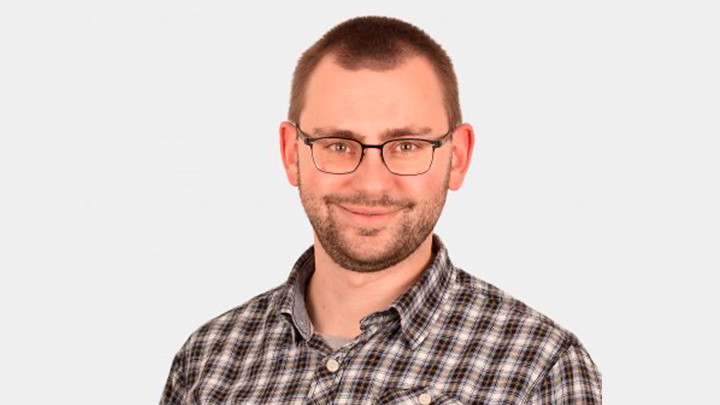
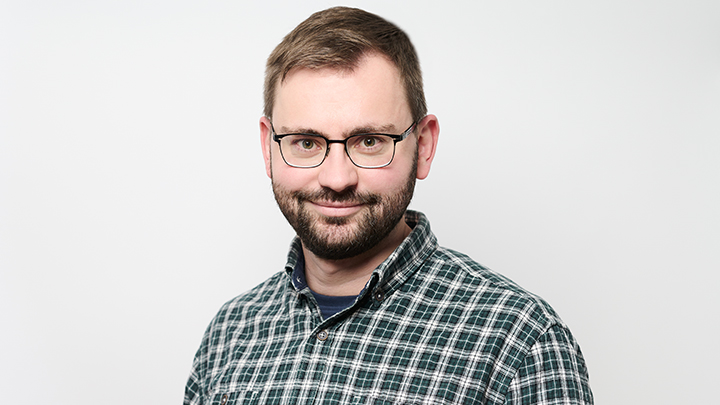
Updates team images

diff --git a/templates/macros/team.html b/templates/macros/team.html
@@ -88,7 +88,7 @@
             </div>
             <div class="large-5 medium-6 cell">
                 <div class="card">
-                    <img src="{{ '/static/img/team/Chantal-Trutmann.png'|url }}" alt="Chantal Trutmann">
+                    <img src="{{ '/static/img/team/Chantal-Trutmann.jpg'|url }}" alt="Chantal Trutmann">
                     <div class="card-section" data-equalizer-watch>
                         <h4>Chantal Trutmann</h4>
                         <p><strong>Software Engineer</strong></p>
@@ -134,7 +134,7 @@
             </div>
               <div class="large-5 medium-6 cell">
                 <div class="card">
-                    <img src="{{ '/static/img/team/cyrill_kuettel.webp'|url }}" alt="Cyrill Küttel">
+                    <img src="{{ '/static/img/team/Cyrill-Kuettel.jpg'|url }}" alt="Cyrill Küttel">
                     <div class="card-section" data-equalizer-watch>
                         <h4>Cyrill Küttel</h4>
                         <p><strong>Software Engineer</strong></p>
